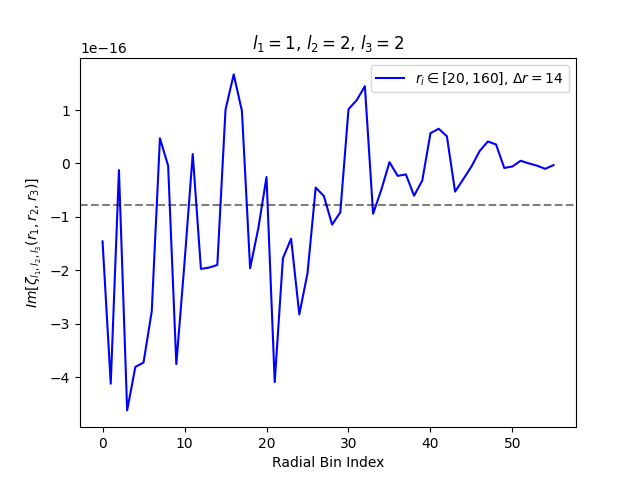
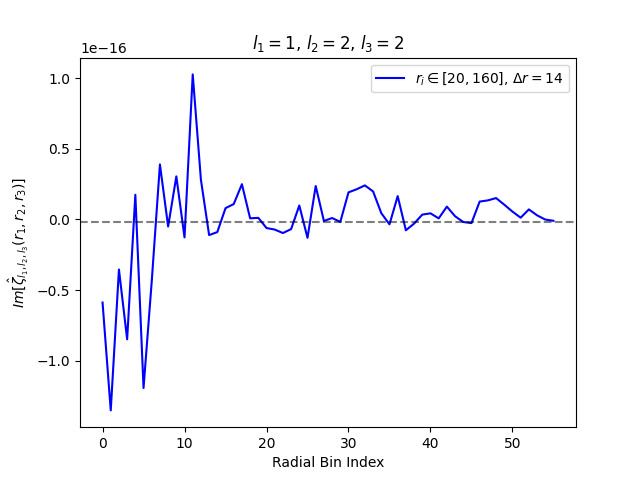
In progress

diff --git a/fourPCF_estimator.py b/fourPCF_estimator.py
@@ -71,7 +71,7 @@ def estimator(l1, l2, l3, vertices, bins_min, bins_max, weights):
 vertices = np.load("vertices_sample.npy")
 weights = np.load("weights_sample.npy")
 
-choice = 1 # 1 or 2
+choice = 2 # 1 or 2
 radial_bins = []
 
 if choice == 1:
@@ -97,8 +97,8 @@ elif choice == 2:
 
 # Estimate 4PCF of test sample
 l1 = 1
-l2 = 2
-l3 = 2
+l2 = 1
+l3 = 1
 zeta = []
 
 if choice == 1:
@@ -118,7 +118,10 @@ elif choice == 2:
 print(zeta)
 
 # zeta = np.load(f"zeta{l1}{l2}{l3}_test_sample{choice}.npy")
-# plt.plot(np.arange(len(zeta)), zeta, color="blue", label=r"$r_{i}\in[20, 164]$, $\Delta r = 8$")
+# if choice == 1:
+#     plt.plot(np.arange(len(zeta)), zeta, color="blue", label=r"$r_{i}\in[20, 160]$, $\Delta r = 14$")
+# elif choice == 2:
+#     plt.plot(np.arange(len(zeta)), zeta, color="blue", label=r"$r_{i}\in[20, 164]$, $\Delta r = 8$")
 # plt.xlabel("Radial Bin Index")
 # plt.ylabel(r"$Im[\hat{\zeta}_{l_{1}, l_{2}, l_{3}}(r_{1}, r_{2}, r_{3})]$")
 # plt.axhline(np.mean(zeta), linestyle="--", color="black", alpha=0.5)
